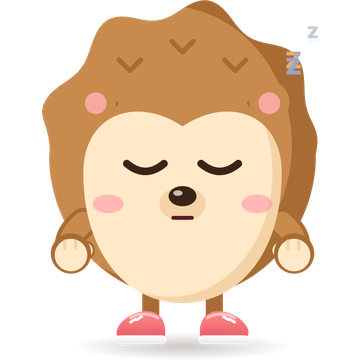
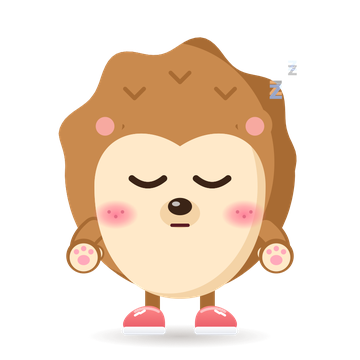
Coin stack at the left edge, the footer name pops in, Hedge's new face
- A grey stack of coins sits at the page's left edge on wide screens and gains a coin
  for each stretch you read, full at the foot of the page (after tryclucky.com's clock wheels).
- The big Pouch name in the footer pops up letter by letter when it comes into view.
- Hedge's pictures use the app's new face (sparkly eyes, blush with freckles).

diff --git a/site.css b/site.css
@@ -631,3 +631,23 @@ video.clip { display: block; width: 100%; aspect-ratio: 600 / 1304; height: auto
   .z1 { opacity: 1; left: 85%; top: 6%; }
   .z2 { opacity: 1; left: 79%; top: 14%; }
 }
+
+/* ---------- A stack of coins at the left edge, after Clucky's clock wheels (wide screens only) ----------
+   Seen edge on and drawn in grey so it stays behind the page. site.js adds the coins; each one drops on as
+   you read further, so the stack is full at the foot of the page. */
+.side-stack { position: fixed; left: -245px; top: 50%; z-index: 0; width: 360px; height: 560px; transform: translateY(-46%); pointer-events: none; display: none; filter: grayscale(1); opacity: .45; }
+@media (min-width: 1320px) { .side-stack { display: block; } }
+.stack { position: absolute; inset: 0; }
+.sc { position: absolute; left: 30px; bottom: 30px; width: 300px; height: 70px; border-radius: 50%; background: linear-gradient(180deg, #FFE27A, #F2B21A 55%, #C98A06); box-shadow: inset 0 -10px 0 #B97E06, inset 0 4px 0 rgba(255, 255, 255, .55); transform: translateY(calc(var(--i) * -32px - 90px)); opacity: 0; transition: transform .5s cubic-bezier(.34, 1.4, .64, 1), opacity .25s ease; }
+.sc.on { opacity: 1; transform: translateY(calc(var(--i) * -32px)); }
+main, .footer { position: relative; z-index: 1; }
+@media (prefers-reduced-motion: reduce) { .sc { transition: none; } }
+
+/* ---------- The name in the footer pops up letter by letter when it comes into view (site.js adds .pop) ---------- */
+.wordmark span { display: inline-block; background: inherit; -webkit-background-clip: text; background-clip: text; color: transparent; }
+.js .wordmark span { opacity: 0; transform: translateY(40%) scale(.6) rotate(-8deg); }
+.js .wordmark.pop span { animation: letter .6s cubic-bezier(.34, 1.56, .64, 1) both; }
+.wordmark.pop span:nth-child(2) { animation-delay: .08s; } .wordmark.pop span:nth-child(3) { animation-delay: .16s; }
+.wordmark.pop span:nth-child(4) { animation-delay: .24s; } .wordmark.pop span:nth-child(5) { animation-delay: .32s; }
+@keyframes letter { from { opacity: 0; transform: translateY(40%) scale(.6) rotate(-8deg); } to { opacity: 1; transform: none; } }
+@media (prefers-reduced-motion: reduce) { .js .wordmark span { opacity: 1; transform: none; } .js .wordmark.pop span { animation: none; } }

diff --git a/index.html b/index.html
@@ -19,7 +19,7 @@
 <link rel="apple-touch-icon" href="assets/icon-180.png">
 <link rel="canonical" href="https://sasankarasanjana29.github.io/hedge-site/">
 <script type="application/ld+json">{"@context": "https://schema.org", "@type": "MobileApplication", "name": "Pouch", "operatingSystem": "iOS", "applicationCategory": "FinanceApplication", "description": "A budgeting app for iPhone that shows what's safe to spend today, keeps every part of the month in its own category, and never asks for a bank login.", "url": "https://sasankarasanjana29.github.io/hedge-site/", "image": "https://sasankarasanjana29.github.io/hedge-site/assets/og.png", "inLanguage": ["en", "si", "ta", "hi", "bn", "es", "pt", "fr", "de", "ru", "ja", "zh", "id"], "author": {"@type": "Person", "name": "Sasanka Rasanjana"}}</script>
-<link rel="stylesheet" href="site.css?v=20261104a">
+<link rel="stylesheet" href="site.css?v=20261112h">
 </head>
 <body>
 
@@ -61,6 +61,9 @@
   </nav>
   <span class="soon">Coming to iPhone</span>
 </header>
+
+<!-- A stack of coins at the page's left edge: a coin drops on for each stretch you read (site.js) -->
+<div class="side-stack" aria-hidden="true"><div class="stack"></div></div>
 
 <main id="top">
 
@@ -359,9 +362,9 @@
     </div>
     <div class="footer-base"><span>Made by Sasanka Rasanjana in Sri Lanka.</span><span>&copy; 2026 Pouch</span></div>
   </div>
-  <div class="wordmark" aria-hidden="true">Pouch</div>
+  <div class="wordmark" aria-hidden="true"><span>P</span><span>o</span><span>u</span><span>c</span><span>h</span></div>
 </footer>
 
-<script src="site.js?v=20261102d" defer></script>
+<script src="site.js?v=20261112h" defer></script>
 </body>
 </html>

diff --git a/site.js b/site.js
@@ -131,3 +131,41 @@ if (!still && 'IntersectionObserver' in window) {
   }, { threshold: 0.35 });
   clips.forEach((v) => watch.observe(v));
 }
+
+// The coin stack at the page's left edge: a coin drops on for each stretch you read. Hidden below 1320px (site.css).
+const stack = document.querySelector('.stack');
+if (stack) {
+  const N = 14;
+  const coins = Array.from({ length: N }, (_, i) => {
+    const c = document.createElement('i');
+    c.className = 'sc';
+    c.style.setProperty('--i', i);
+    stack.appendChild(c);
+    return c;
+  });
+  let queued = false;
+  const fill = () => {
+    queued = false;
+    const room = document.documentElement.scrollHeight - innerHeight;
+    const p = room > 0 ? Math.min(1, Math.max(0, scrollY / room)) : 0;
+    const on = 2 + Math.round(p * (N - 2));
+    coins.forEach((c, i) => c.classList.toggle('on', i < on));
+  };
+  fill();
+  addEventListener('scroll', () => { if (!queued) { queued = true; requestAnimationFrame(fill); } }, { passive: true });
+  addEventListener('resize', fill, { passive: true });
+}
+
+// The big name in the footer pops up letter by letter the first time it comes into view.
+const mark = document.querySelector('.wordmark');
+if (mark) {
+  if (still || !('IntersectionObserver' in window)) mark.classList.add('pop');
+  else {
+    const io = new IntersectionObserver((entries) => {
+      if (!entries.some((e) => e.isIntersecting)) return;
+      mark.classList.add('pop');
+      io.disconnect();
+    }, { threshold: 0.1 });
+    io.observe(mark);
+  }
+}
